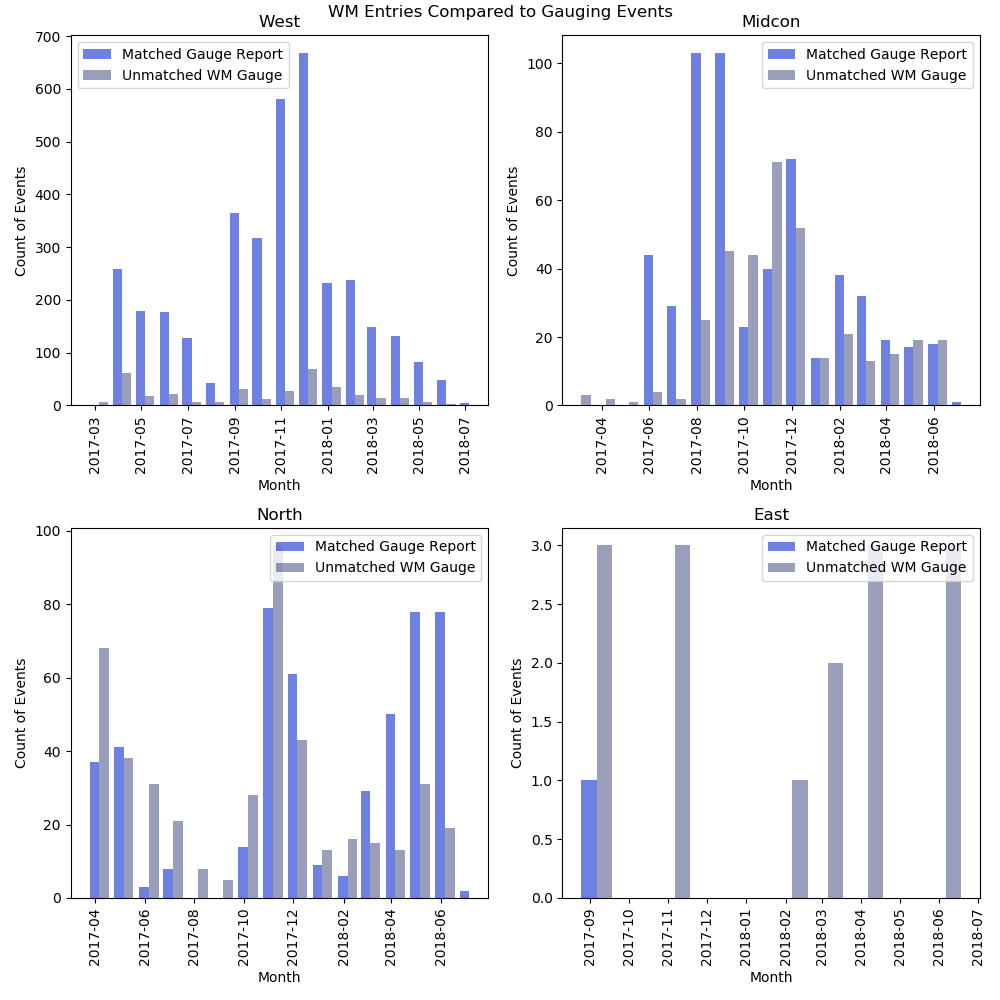
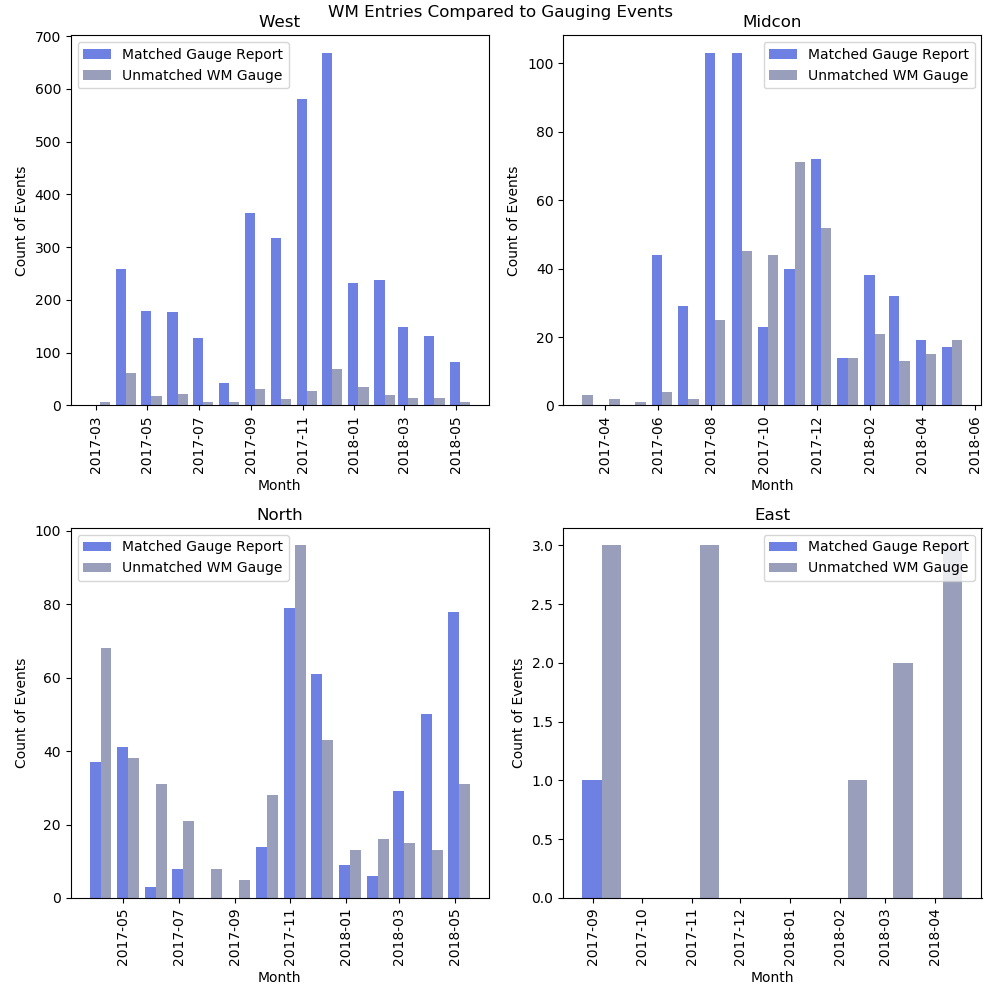
removing contract and carryover gauges

diff --git a/analyze.py b/analyze.py
@@ -18,10 +18,40 @@ def action_pull():
 
 	cursor = connection.cursor()
 	SQLCommand = ("""
+		DROP TABLE IF EXISTS #tmp;
+
+		SELECT	[_id],
+				[TankCode],
+				[gaugeDate],
+				[liquidAmount],
+		      	ROW_NUMBER() OVER(PARTITION BY [tankcode] ORDER BY [gaugedate] DESC) AS [rk]
+		INTO 	[#TMP]
+		FROM    EDW.Enbase.GaugeData AS GD
+		WHERE   [liquidAmount] IS NOT NULL;
+	""")
+
+	cursor.execute(SQLCommand)
+
+	SQLCommand = ("""
+		DROP TABLE IF EXISTS #CarryOverIds;
+
+		SELECT 	[t1].[_id]
+		  INTO 	[#CarryOverIds]
+		  FROM  #TMP AS T
+		INNER JOIN #TMP AS T1
+				ON T1.RK = T.Rk - 1
+		       AND T.tankCode = T1.tankCode;
+	""")
+
+	cursor.execute(SQLCommand)
+
+	SQLCommand = ("""
 		SELECT	*
 		  FROM [TeamOptimizationEngineering].[Reporting].[ActionListHistory] AL
 		WHERE [Action Date] >= '2017-03-30'
 		  AND [Action Date] <= '2018-04-12'
+		  AND _id NOT IN (SELECT *
+		  					FROM #CarryOverIds)
 	""")
 
 	cursor.execute(SQLCommand)
@@ -122,6 +152,35 @@ def gauge_pull():
 		sys.exit()
 
 	cursor = connection.cursor()
+
+	SQLCommand = ("""
+		DROP TABLE IF EXISTS #tmp;
+
+		SELECT	[_id],
+				[TankCode],
+				[gaugeDate],
+				[liquidAmount],
+		      	ROW_NUMBER() OVER(PARTITION BY [tankcode] ORDER BY [gaugedate] DESC) AS [rk]
+		INTO 	[#TMP]
+		FROM    EDW.Enbase.GaugeData AS GD
+		WHERE   [liquidAmount] IS NOT NULL;
+	""")
+
+	cursor.execute(SQLCommand)
+
+	SQLCommand = ("""
+		DROP TABLE IF EXISTS #CarryOverIds;
+
+		SELECT 	[t1].[_id]
+		  INTO 	[#CarryOverIds]
+		  FROM  #TMP AS T
+		INNER JOIN #TMP AS T1
+				ON T1.RK = T.Rk - 1
+		       AND T.tankCode = T1.tankCode;
+	""")
+
+	cursor.execute(SQLCommand)
+
 	SQLCommand = ("""
 		SELECT	Wellkey
 				,BusinessUnit
@@ -130,32 +189,18 @@ def gauge_pull():
 				,[Action Type - No count]
 				,Comment
 				,CommentAction
-		  FROM [TeamOptimizationEngineering].[Reporting].[ActionListHistory]
+		  FROM [TeamOptimizationEngineering].[Reporting].[ActionListHistory] ALH
 		  WHERE [Action Type - No count] = 'Gauge'
 		     OR (CommentAction LIKE '%gaug%'
 			 	AND CommentAction LIKE '%tank%'
 				AND [Action Type - No count] = 'WM Completed')
+			 AND ALH._id NOT IN (SELECT *
+			 					   FROM #CarryOverIds)
+			 AND [Action Date] < '2018-05-01'
+			 AND createdby NOT LIKE '%ibex%'
+			 AND createdby NOT LIKE '%readyoil%'
 		ORDER BY Wellkey, [Action Date]
 	""")
-
-	# DROP TABLE IF EXISTS #tmp;
-	#
-	# SELECT [_id],
-	#       [TankCode],
-	#       [gaugeDate],
-	#       [liquidAmount],
-	#       ROW_NUMBER() OVER(PARTITION BY [tankcode] ORDER BY [gaugedate] DESC) AS [rk]
-	# INTO [#TMP]
-	# FROM   EDW.Enbase.GaugeData AS GD
-	# WHERE  [liquidAmount] IS NOT NULL;
-	#
-	# DROP TABLE IF EXISTS #CarryOverIds;
-	#
-	# SELECT [t1].[_id]
-	# INTO [#CarryOverIds]
-	# FROM   #TMP AS T
-	#       INNER JOIN #TMP AS T1 ON T1.RK = T.Rk - 1
-	#                           AND T.tankCode = T1.tankCode;
 
 	cursor.execute(SQLCommand)
 	results = cursor.fetchall()
@@ -489,9 +534,9 @@ if __name__ == '__main__':
 	# action_df.to_csv('data/comment_action.csv')
 	a_df = pd.read_csv('data/comment_action.csv', encoding='ISO-8859-1')
 
-	# gauge_df = gauge_pull()
-	# g_df = gauge_events(gauge_df)
-	# gauge_counts(gauge_df[['BusinessUnit', 'Wellkey']])
+	gauge_df = gauge_pull()
+	g_df = gauge_events(gauge_df)
+	gauge_counts(gauge_df[['BusinessUnit', 'Wellkey']])
 
 	# pm_dist(a_df[a_df['Comment'].notnull()])
 
@@ -503,14 +548,14 @@ if __name__ == '__main__':
 	# for g_type in ['driver', 'well']:
 	# 	work_dist(work_dis_df, g_type)
 
-	hour_df = pd.read_csv('data/ws_hours.csv')
-	work_df = a_df.loc[(a_df['Action Type - No count'] != 'WM Completed') &
-					   (a_df['Action Type - No count'] != 'Gauge') &
-					   (a_df['Action Type - No count'] != 'SF'),
-					  ['BusinessUnit', '_id', 'Action Type - No count', 'Action Date']]
-	all_df = a_df.loc[:, ['BusinessUnit', '_id', 'Action Type - No count', 'Action Date']]
-	wh_df = pd.merge(work_df, hour_df, left_on='_id', right_on='id')
-	site_report(wh_df[wh_df['Action Type - No count'] == 'Site Report'])
+	# hour_df = pd.read_csv('data/ws_hours.csv')
+	# work_df = a_df.loc[(a_df['Action Type - No count'] != 'WM Completed') &
+	# 				   (a_df['Action Type - No count'] != 'Gauge') &
+	# 				   (a_df['Action Type - No count'] != 'SF'),
+	# 				  ['BusinessUnit', '_id', 'Action Type - No count', 'Action Date']]
+	# all_df = a_df.loc[:, ['BusinessUnit', '_id', 'Action Type - No count', 'Action Date']]
+	# wh_df = pd.merge(work_df, hour_df, left_on='_id', right_on='id')
+	# site_report(wh_df[wh_df['Action Type - No count'] == 'Site Report'])
 
 	# action_count(a_df)
 	# for g_type in ['driver', 'all']:
